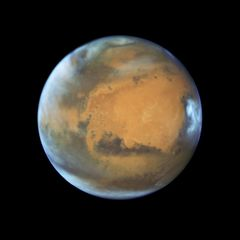
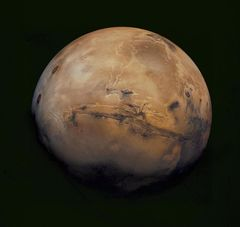
Plan: trophy ladder with the universe cup, unique trophies, levels, Gaia-based data, version updates
Also fetches trophy references (NASA only; Hubble deep field and Planck CMB are linked, not copied) and fixes
the reference fetcher: Hubble images credit ESA only in their description, so the Hubble Mars photo had been
copied. It is replaced by a Viking global mosaic (NASA/USGS).

diff --git a/web/data/gallery.js b/web/data/gallery.js
@@ -158,9 +158,9 @@ window.STARMAP_GALLERY = {
  },
  "mars": {
   "img": "gallery/mars.jpg",
-  "credit": "NASA GSFC",
-  "link": "https://images.nasa.gov/details/GSFC_20171208_Archive_e000332",
-  "what": "Mars near its close approach (Hubble)"
+  "credit": "NASA/USGS",
+  "link": "https://images.nasa.gov/details/PIA04304",
+  "what": "Mars, a global colour mosaic from the Viking orbiters"
  },
  "jupiter": {
   "img": "gallery/jupiter.jpg",
@@ -191,5 +191,17 @@ window.STARMAP_GALLERY = {
   "credit": "NASA/Johns Hopkins University Applied Physics Laboratory/Southwest Research Institute",
   "link": "https://images.nasa.gov/details/PIA19952",
   "what": "Pluto by New Horizons (enhanced colour), heart and all"
+ },
+ "universe-deep-field": {
+  "img": null,
+  "credit": "NASA GSFC (NASA; ESA; G. Illingworth, D. Magee, and P. Oesch, University of California, Santa Cruz; R. Bouwens, Leiden University; and the HUDF09 Team)",
+  "link": "https://images.nasa.gov/details/GSFC_20171208_Archive_e001651",
+  "what": "Hubble eXtreme Deep Field: thousands of galaxies in a speck of sky"
+ },
+ "universe-cmb": {
+  "img": null,
+  "credit": "NASA/JPL-Caltech/ESA",
+  "link": "https://images.nasa.gov/details/PIA16874",
+  "what": "The oldest light in the universe, the cosmic microwave background (Planck)"
  }
 };

diff --git a/scripts/starmap/fetch_references.py b/scripts/starmap/fetch_references.py
@@ -15,6 +15,7 @@ also go to web/gallery/, with their credits in web/data/gallery.js.
 
 import io
 import json
+import re
 import urllib.parse
 import urllib.request
 from pathlib import Path
@@ -60,7 +61,7 @@ PICKS = [
     ('solar-system', 'earth', 'epic-view-of-africa-and-europe-from-a-million-miles-away_19927967400_o',
      'Earth, Africa and Europe, from 1.5 million km (DSCOVR EPIC, 2015)'),
     ('solar-system', 'moon', 'GSFC_20171208_Archive_e000868', 'The full Moon'),
-    ('solar-system', 'mars', 'GSFC_20171208_Archive_e000332', 'Mars near its close approach (Hubble)'),
+    ('solar-system', 'mars', 'PIA04304', 'Mars, a global colour mosaic from the Viking orbiters'),
     ('solar-system', 'jupiter', 'PIA04866', 'Jupiter and the Great Red Spot (Cassini, 2000)'),
     ('solar-system', 'saturn', 'PIA14922', 'Saturn with its moon Titan in front (Cassini, 2012)'),
     ('solar-system', 'uranus', 'PIA18182', 'Uranus (Voyager 2, 1986)'),
@@ -79,6 +80,20 @@ PICKS = [
     ('concepts', 'comet-hale-bopp', 'PIA01289', 'Comet Hale-Bopp seen by Hubble (for the passing comets)'),
     ('concepts', 'asteroid-eros', 'PIA02900', 'Asteroid Eros up close, NEAR Shoemaker (for the passing asteroids)'),
     ('stars', '9-black-hole-m87', 'PIA23122', 'Galaxy M87 (Spitzer) with the first image of a black hole (Event Horizon Telescope inset)'),
+    # Trophies (docs/plans/TROPHIES_AND_DATA.md): the universe cup, the nebula tier, and unique trophies.
+    ('trophies', 'universe-deep-field', 'GSFC_20171208_Archive_e001651', 'Hubble eXtreme Deep Field: thousands of galaxies in a speck of sky'),
+    ('trophies', 'universe-cmb', 'PIA16874', 'The oldest light in the universe, the cosmic microwave background (Planck)'),
+    ('trophies', 'universe-baby-galaxies', 'PIA07142', 'Young galaxies across the universe (GALEX, Spitzer)'),
+    ('trophies', 'universe-milky-way', 'PIA10748', 'Our Milky Way from outside, with its central bar (artist concept)'),
+    ('trophies', 'universe-andromeda', 'PIA04921', 'The Andromeda galaxy in ultraviolet (GALEX)'),
+    ('trophies', 'nebula-eagle', 'PIA25433', 'The Eagle Nebula, home of the Pillars of Creation (WISE, infrared)'),
+    ('trophies', 'dwarf-ceres', 'PIA19167', 'Ceres from the Dawn spacecraft, 2015'),
+    ('trophies', 'dwarf-eris', 'PIA17307', 'Eris and its moon Dysnomia (artist concept)'),
+    ('trophies', 'moon-ida-dactyl', 'PIA00069', 'Asteroid Ida and its moon Dactyl, the first asteroid moon found (Galileo, 1993)'),
+    ('trophies', 'red-dwarf-flare', 'GSFC_20171208_Archive_e002073', 'A red dwarf unleashing a giant flare (artist concept)'),
+    ('trophies', 'red-dwarf-trappist', 'PIA22096', 'TRAPPIST-1, a red dwarf and its seven worlds, to scale with Jupiter\'s moons'),
+    ('trophies', 'brown-dwarf', 'PIA21752', 'A brown dwarf, too small to be a star, with banded weather (artist concept)'),
+    ('trophies', 'two-suns-kepler-16', 'PIA14724', 'Kepler-16 b, where the sun sets twice (artist concept)'),
 ]
 WEB_FOLDERS = {'spacecraft', 'solar-system'}   # the Galleria's photos; 'stars' are concept references only
 EXTRA = [   # not in the NASA library search: (folder, file, URL, credit, what it shows)
@@ -109,6 +124,10 @@ def main():
         pick = next((a for suffix in ('~medium.jpg', '~large.jpg', '~orig.jpg') for a in assets if a.endswith(suffix)),
                     None) or next(a for a in assets if a.lower().endswith(('.jpg', '.png')))
         credit = meta.get('secondary_creator') or meta.get('photographer') or f"NASA {meta.get('center', '')}".strip()
+        # Hubble images filed under GSFC name ESA only in the description's "Credit:" line (e.g. "NASA, ESA, ...").
+        credit_line = re.search(r'Credits?:\s*([^<\n]{0,240})', meta.get('description', ''))
+        if credit_line and re.search(r'\bESA\b', credit_line.group(1)) and 'ESA' not in credit:
+            credit = f'{credit} ({credit_line.group(1).strip().rstrip(";,. ")})'
         path = OUT / folder / f'{name}.jpg'
         if 'ESA' in credit:   # ESA's licence, not NASA's: link only
             path.unlink(missing_ok=True)

diff --git a/docs/plans/TROPHIES_AND_DATA.md b/docs/plans/TROPHIES_AND_DATA.md
@@ -1,0 +1,115 @@
+# Plan: more accurate stars and planets, a trophy ladder with the universe cup, unique trophies, version updates
+
+**Status: plan.** References fetched to `pixel-art/references/trophies/` (sources in
+`pixel-art/references/SOURCES.md`). Written 17 October 2026.
+
+## 1. Data accuracy: stars and planets
+
+1. **Planet sizes from Gaia star sizes.** The export already downloads the Gaia-Kepler star table (Berger et al.
+   2020), but it uses it only for star mass, age, metals, gravity and distance. Planet radii still come from the
+   KOI table (`koi_prad`), and so do star radii (`koi_srad`), both measured before Gaia. A planet's size is
+   (planet-to-star size ratio, `koi_ror`) × (star radius), so we recompute it with the Gaia star radius, use the
+   Gaia radius for the star's brightness too, and carry the error bars. For confirmed planets, NASA's own
+   planet table (`pscomppars`) stays the first source. This moves the Earth-sized list and the habitable zone,
+   so it ships together with HIGHLIGHTS.md.
+2. **Star types and life stages.** Each star gets a label:
+   - its type from its temperature (red dwarf M, orange dwarf K, yellow dwarf G, like the Sun; F and hotter);
+   - its life stage from Gaia's surface gravity (main sequence, subgiant, giant).
+   The star card says it in words ("an orange dwarf, a little cooler than the Sun"). A few Kepler planets circle
+   red giants (e.g. Kepler-56, Kepler-91), which ties into the rank emblems (a star's life).
+3. **Brown dwarfs labelled as such.** Kepler-39 b is about 20 Jupiter masses: a brown dwarf, not a planet. To
+   do: list every object above about 13 Jupiter masses from NASA's table and label them.
+4. **Fresh data, shown.** The monthly refresh workflow already pulls NASA's updates. The page shows the data's
+   date next to the version (section 5), and WHAT'S NEW lists newly confirmed planets, rejected candidates and
+   renamed stars (`resolutions.js` already records rulings).
+5. **An independent check** (a fresh agent, as for HIGHLIGHTS.md): it recomputes radii, types and stages from
+   NASA's and Gaia's tables on its own, and reports anything that disagrees before it ships. Tests pin known
+   cases: the Sun's numbers give a yellow dwarf, Kepler-56 is a giant, Kepler-39 b a brown dwarf.
+
+## 2. The trophy ladder
+
+**Bronze → Silver → Gold → Nebula (new) → Black hole.** The universe cup stands apart, as the secrets' track.
+
+| Trophy | For | Look |
+|---|---|---|
+| Bronze, silver, gold | common, rare, epic (as now) | metal cups, gold with a sparkle |
+| **Nebula** (new) | the hardest sets and maxed levels (section 4) | a cup glowing pink, teal and violet that slowly shift, like the Eagle Nebula (`nebula-eagle.jpg`); dust drifts off the rim |
+| **Universe cup** (replaces the galaxy cup) | every secret achievement | see below |
+| **Black hole** | TRUE STAR GAZER only | as now |
+
+Secrets are a separate track, not a level above nebula: some are easy (NIGHT SHIFT, SO CLOSE). In the trophy case
+they get their own row after nebula. Names already used by the rank stages (supernova, pulsar) stay off the
+trophies, so the two systems don't blur.
+
+**The universe cup.** The bowl is the history of the universe. NASA's WMAP "timeline of the universe" diagram
+is famously cup-shaped: a cone flaring out from the Big Bang. So:
+- the stem is a single bright dot, the Big Bang;
+- the bowl flares upward through a mottled band of the oldest light (the cosmic microwave background:
+  `universe-cmb`, linked only), then a dark band, the "dark ages";
+- the first stars light up, then galaxies along the rim: tiny spirals and smudges like the Hubble deep field
+  (`universe-deep-field`, linked only; `universe-baby-galaxies.jpg`), with the Milky Way and Andromeda as the two
+  biggest (`universe-milky-way.jpg`, `universe-andromeda.jpg`);
+- the bowl slowly fills with twinkling galaxies.
+
+Concept art first (`draft_trophy_universe.gif`, 16 × 16 and a 48 × 48 hologram version).
+
+## 3. Unique trophies: ideas
+
+The harder achievements already get a symbol on their cup (`SYMBOLS` in `49-ranks.js`). New and missing ones:
+
+| Achievement | Trophy symbol | Reference |
+|---|---|---|
+| **DWARF KING** (all five dwarf planets) | a tiny crown over five dots in a row, the middle one with Pluto's heart | `dwarf-ceres.jpg`, `dwarf-eris.jpg`, Pluto |
+| **DWARF STAR** (visit a red, an orange and a yellow dwarf) | three small suns in red, orange and yellow | `red-dwarf-flare.jpg`, `red-dwarf-trappist.jpg` |
+| **FAILED STAR** (secret: find Kepler-39 b, the brown dwarf) | a dim banded brown ball | `brown-dwarf.jpg` |
+| **GIANT'S COMPANION** (a planet around a red giant) | a huge red star with a speck beside it | `stars/4-red-giant.jpg` |
+| **MOON HUNTER** (both exomoon candidates) | a planet with a dashed moon (a candidate) | `moon-ida-dactyl.jpg` |
+| **OCEAN WORLD** (Kepler-138) | a blue planet with a wave | - |
+| **TATOOINE** / **DOUBLE SUNSET** | two suns setting over a horizon (DOUBLE SUNSET has it; TATOOINE gets a smaller one) | `two-suns-kepler-16.jpg` |
+| **SO CLOSE** | a dart just off the bullseye | done |
+| **MISSION CONTROL** levels | the satellite gains solar panels per level | - |
+
+## 4. Achievements with levels
+
+As GALACTIC CENSUS does (50 / 500 / 1,000 systems): stars appear on the trophy's base for each level, and the
+last level upgrades the cup to **nebula**.
+- **DWARF KING:** 1 → 3 → all 5 dwarf planets → all 5 plus their 9 known moons.
+- **DWARF STAR:** one type → all three dwarf types → a planet in the habitable zone of each.
+- **MISSION CONTROL:** 5 → 10 → every spacecraft.
+- **ORACLE** (right calls): 5 → 15 → 30.
+
+A level-up gets its own pop-up ("DWARF KING II"). Ids never change; levels are worked out from saved progress,
+so nobody loses what they've earned.
+
+## 5. Version updates, as other websites do
+
+- **A version number** (semantic versioning, `MAJOR.MINOR.PATCH`):
+  - MAJOR: a big redesign, or a change in how progress is saved (never loses progress);
+  - MINOR: new features (eggs, achievements, filters);
+  - PATCH: fixes.
+  The data refresh keeps its own date, shown beside the version: `v1.4.0 · NASA data 17 Oct 2026`.
+- **`CHANGELOG.md`** (the "Keep a Changelog" format: Added / Changed / Fixed per version), backfilled from the git
+  history since 12 October 2026, and a **GitHub Release** with a git tag for each version
+  (`gh release create v1.4.0 --notes-file ...`).
+- **On the page:** the version in the footer, linking to the changelog. A **"What's new in v1.4"** pop-up once
+  per new version: 2 or 3 highlights in plain words, merged with today's data WHAT'S NEW.
+- **Fresh files after an update:** `build_web.py` stamps the version on the script and stylesheet links
+  (`starmap.js?v=1.4.0`), so browsers don't keep an old cached copy after a release.
+- **One source of truth:** the version lives in one file (`web/src/00-version.js`, generated or checked by
+  `build_web.py`). A test checks the footer, the changelog's top entry and the link stamps agree.
+- **Where it starts:** call today's site **v1.0.0** (the first full release), with the changelog grouping what came
+  before.
+
+## 6. Build order
+
+1. Version updates (small, and every later feature then lands as a release).
+2. Data: Gaia radii, star types and stages, brown dwarfs; then the independent check (with HIGHLIGHTS.md).
+3. Trophy ladder: nebula tier and the universe cup (concept art first).
+4. New achievements (DWARF KING etc., as their features land) and levels.
+
+## 7. Decisions for you
+
+1. The new tier's name: **Nebula** (recommended), or something else?
+2. Should levelled achievements upgrade to the nebula cup at their last level?
+3. Version numbering: start today at v1.0.0, and publish GitHub Releases (recommended)?
+4. The universe cup design (the Big Bang cone): OK for concept art?

diff --git a/pixel-art/references/SOURCES.md b/pixel-art/references/SOURCES.md
@@ -35,7 +35,7 @@ ESA are under ESA's own terms, so they are linked here, not copied.
 | `solar-system/venus.jpg` | Venus and its clouds (Mariner 10, 1974, reprocessed) | [PIA23791](https://images.nasa.gov/details/PIA23791) | NASA/JPL-Caltech | 2020-06-08 |
 | `solar-system/earth.jpg` | Earth, Africa and Europe, from 1.5 million km (DSCOVR EPIC, 2015) | [epic-view-of-africa-and-europe-from-a-million-miles-away_19927967400_o](https://images.nasa.gov/details/epic-view-of-africa-and-europe-from-a-million-miles-away_19927967400_o) | NASA GSFC | 2015-07-29 |
 | `solar-system/moon.jpg` | The full Moon | [GSFC_20171208_Archive_e000868](https://images.nasa.gov/details/GSFC_20171208_Archive_e000868) | NASA GSFC | 2017-12-08 |
-| `solar-system/mars.jpg` | Mars near its close approach (Hubble) | [GSFC_20171208_Archive_e000332](https://images.nasa.gov/details/GSFC_20171208_Archive_e000332) | NASA GSFC | 2017-12-08 |
+| `solar-system/mars.jpg` | Mars, a global colour mosaic from the Viking orbiters | [PIA04304](https://images.nasa.gov/details/PIA04304) | NASA/USGS | 2003-02-05 |
 | `solar-system/jupiter.jpg` | Jupiter and the Great Red Spot (Cassini, 2000) | [PIA04866](https://images.nasa.gov/details/PIA04866) | NASA/JPL/Space Science Institute | 2003-11-13 |
 | `solar-system/saturn.jpg` | Saturn with its moon Titan in front (Cassini, 2012) | [PIA14922](https://images.nasa.gov/details/PIA14922) | NASA/JPL-Caltech/Space Science Institute | 2012-08-29 |
 | `solar-system/uranus.jpg` | Uranus (Voyager 2, 1986) | [PIA18182](https://images.nasa.gov/details/PIA18182) | NASA/JPL-Caltech | 1986-12-18 |
@@ -53,6 +53,19 @@ ESA are under ESA's own terms, so they are linked here, not copied.
 | `concepts/comet-hale-bopp.jpg` | Comet Hale-Bopp seen by Hubble (for the passing comets) | [PIA01289](https://images.nasa.gov/details/PIA01289) | NASA/JPL/STScI | 1998-08-02 |
 | `concepts/asteroid-eros.jpg` | Asteroid Eros up close, NEAR Shoemaker (for the passing asteroids) | [PIA02900](https://images.nasa.gov/details/PIA02900) | NASA/JPL/JHUAPL | 2000-06-10 |
 | `stars/9-black-hole-m87.jpg` | Galaxy M87 (Spitzer) with the first image of a black hole (Event Horizon Telescope inset) | [PIA23122](https://images.nasa.gov/details/PIA23122) | NASA/JPL-Caltech/IPAC/Event Horizon Telescope Collaboration | 2019-04-25 |
+| (link only) | Hubble eXtreme Deep Field: thousands of galaxies in a speck of sky | [GSFC_20171208_Archive_e001651](https://images.nasa.gov/details/GSFC_20171208_Archive_e001651) | NASA GSFC (NASA; ESA; G. Illingworth, D. Magee, and P. Oesch, University of California, Santa Cruz; R. Bouwens, Leiden University; and the HUDF09 Team) | 2017-12-08 |
+| (link only) | The oldest light in the universe, the cosmic microwave background (Planck) | [PIA16874](https://images.nasa.gov/details/PIA16874) | NASA/JPL-Caltech/ESA | 2013-03-21 |
+| `trophies/universe-baby-galaxies.jpg` | Young galaxies across the universe (GALEX, Spitzer) | [PIA07142](https://images.nasa.gov/details/PIA07142) | NASA/JPL-Caltech | 2004-12-21 |
+| `trophies/universe-milky-way.jpg` | Our Milky Way from outside, with its central bar (artist concept) | [PIA10748](https://images.nasa.gov/details/PIA10748) | NASA/JPL-Caltech | 2008-06-03 |
+| `trophies/universe-andromeda.jpg` | The Andromeda galaxy in ultraviolet (GALEX) | [PIA04921](https://images.nasa.gov/details/PIA04921) | NASA/JPL/California Institute of Technology | 2003-12-10 |
+| `trophies/nebula-eagle.jpg` | The Eagle Nebula, home of the Pillars of Creation (WISE, infrared) | [PIA25433](https://images.nasa.gov/details/PIA25433) | NASA/JPL-Caltech | 2022-11-11 |
+| `trophies/dwarf-ceres.jpg` | Ceres from the Dawn spacecraft, 2015 | [PIA19167](https://images.nasa.gov/details/PIA19167) | NASA/JPL-Caltech/UCLA/MPS/DLR/IDA | 2015-01-19 |
+| `trophies/dwarf-eris.jpg` | Eris and its moon Dysnomia (artist concept) | [PIA17307](https://images.nasa.gov/details/PIA17307) | NASA/JPL-Caltech | 2011-04-11 |
+| `trophies/moon-ida-dactyl.jpg` | Asteroid Ida and its moon Dactyl, the first asteroid moon found (Galileo, 1993) | [PIA00069](https://images.nasa.gov/details/PIA00069) | NASA/JPL | 1996-01-29 |
+| `trophies/red-dwarf-flare.jpg` | A red dwarf unleashing a giant flare (artist concept) | [GSFC_20171208_Archive_e002073](https://images.nasa.gov/details/GSFC_20171208_Archive_e002073) | NASA GSFC | 2017-12-08 |
+| `trophies/red-dwarf-trappist.jpg` | TRAPPIST-1, a red dwarf and its seven worlds, to scale with Jupiter's moons | [PIA22096](https://images.nasa.gov/details/PIA22096) | NASA/JPL-Caltech | 2018-02-05 |
+| `trophies/brown-dwarf.jpg` | A brown dwarf, too small to be a star, with banded weather (artist concept) | [PIA21752](https://images.nasa.gov/details/PIA21752) | NASA/JPL-Caltech | 2017-08-17 |
+| `trophies/two-suns-kepler-16.jpg` | Kepler-16 b, where the sun sets twice (artist concept) | [PIA14724](https://images.nasa.gov/details/PIA14724) | NASA/JPL-Caltech | 2011-09-15 |
 | `solar-system/earth-blue-marble.jpg` | Blue Marble map, the source of the pixel Earth | [Visible Earth](https://eoimages.gsfc.nasa.gov/images/imagerecords/57000/57752/land_shallow_topo_2048.jpg) | NASA Goddard Space Flight Center / Visible Earth |  |
 
 JUICE and BepiColombo (ESA) have no image in the NASA library; their sprites follow ESA's published

diff --git a/docs/plans/README.md b/docs/plans/README.md
@@ -10,6 +10,7 @@ still open. (Merged into `main` in October 2026.)
 | 2 | [HIGHLIGHTS.md](HIGHLIGHTS.md): accurate, explained highlights (Kopparapu habitable zone, facts vs predictions, radius errors), 9 new filters, combined filters with a results list | planned, numbers measured | the user answers its 4 decisions; data first, then an independent data audit |
 | 3 | [ACHIEVEMENTS_V2.md](ACHIEVEMENTS_V2.md): 13 chapters as real constellations, 35 new achievements, planets up close, Project Hail Mary (Tau Ceti, secret Erid), "What the alien doing", comets/asteroids/UFO sky events, rewards and titles | planned, concept art done | the user answers its 5 decisions, then build in its 5 steps |
 | 4 | [CONSTELLATIONS.md](CONSTELLATIONS.md): the constellation data (d3-celestial, BSD) and how figures draw | data checked; pairing superseded by #2 | built as part of #2 |
+| 5 | [TROPHIES_AND_DATA.md](TROPHIES_AND_DATA.md): **version updates** (semantic versions, changelog, GitHub Releases, "what's new in vX"), Gaia-based planet sizes, star types and life stages, brown dwarfs, the trophy ladder (new **nebula** tier, the **universe cup** for secrets), unique trophies, levelled achievements (DWARF KING, DWARF STAR) | planned, references fetched | 4 decisions; version updates can go first |
 | - | [BADGES_AND_ICONS.md](BADGES_AND_ICONS.md) | done (October 2026) | - |
 | - | [TATOOINE_AND_PROPHET.md](TATOOINE_AND_PROPHET.md) | done (October 2026) | - |
 

diff --git a/docs/plans/WORLDS_MOONS_AND_SCREENS.md b/docs/plans/WORLDS_MOONS_AND_SCREENS.md
@@ -31,7 +31,7 @@ does. (If a name still doesn't work, note exactly what was typed.)
 ## 3. Dwarf planets
 The five the IAU recognises, each an easter egg card (Pluto exists): **Ceres** (the asteroid belt), **Pluto**,
 **Haumea** (spins every 4 hours, egg-shaped, has a ring), **Makemake**, **Eris** (the most massive dwarf
-planet). Achievement **DWARF COUNCIL**: find all five by name. NASA images where they exist (Ceres from Dawn, Pluto
+planet). Achievement **DWARF KING**: find all five by name. NASA images where they exist (Ceres from Dawn, Pluto
 from New Horizons); the others only as artist concepts or dots, labelled so.
 
 ## 4. Loading screen: the rock with moons
@@ -56,7 +56,7 @@ version (everything shown) stays available after GRAND TOUR, or with a "show all
 ## 7. Build order
 1. Hidden spacecraft (small, makes the game consistent).
 2. "Lost in orbit" and the loading screen.
-3. Dwarf planets and their moons (eggs + DWARF COUNCIL); planet close-ups come with ACHIEVEMENTS_V2.
+3. Dwarf planets and their moons (eggs + DWARF KING); planet close-ups come with ACHIEVEMENTS_V2.
 4. Water worlds (density column, labels, OCEAN WORLD) and exomoon candidates (MOON HUNTER), with an
    independent data check, as in HIGHLIGHTS.md.
 
